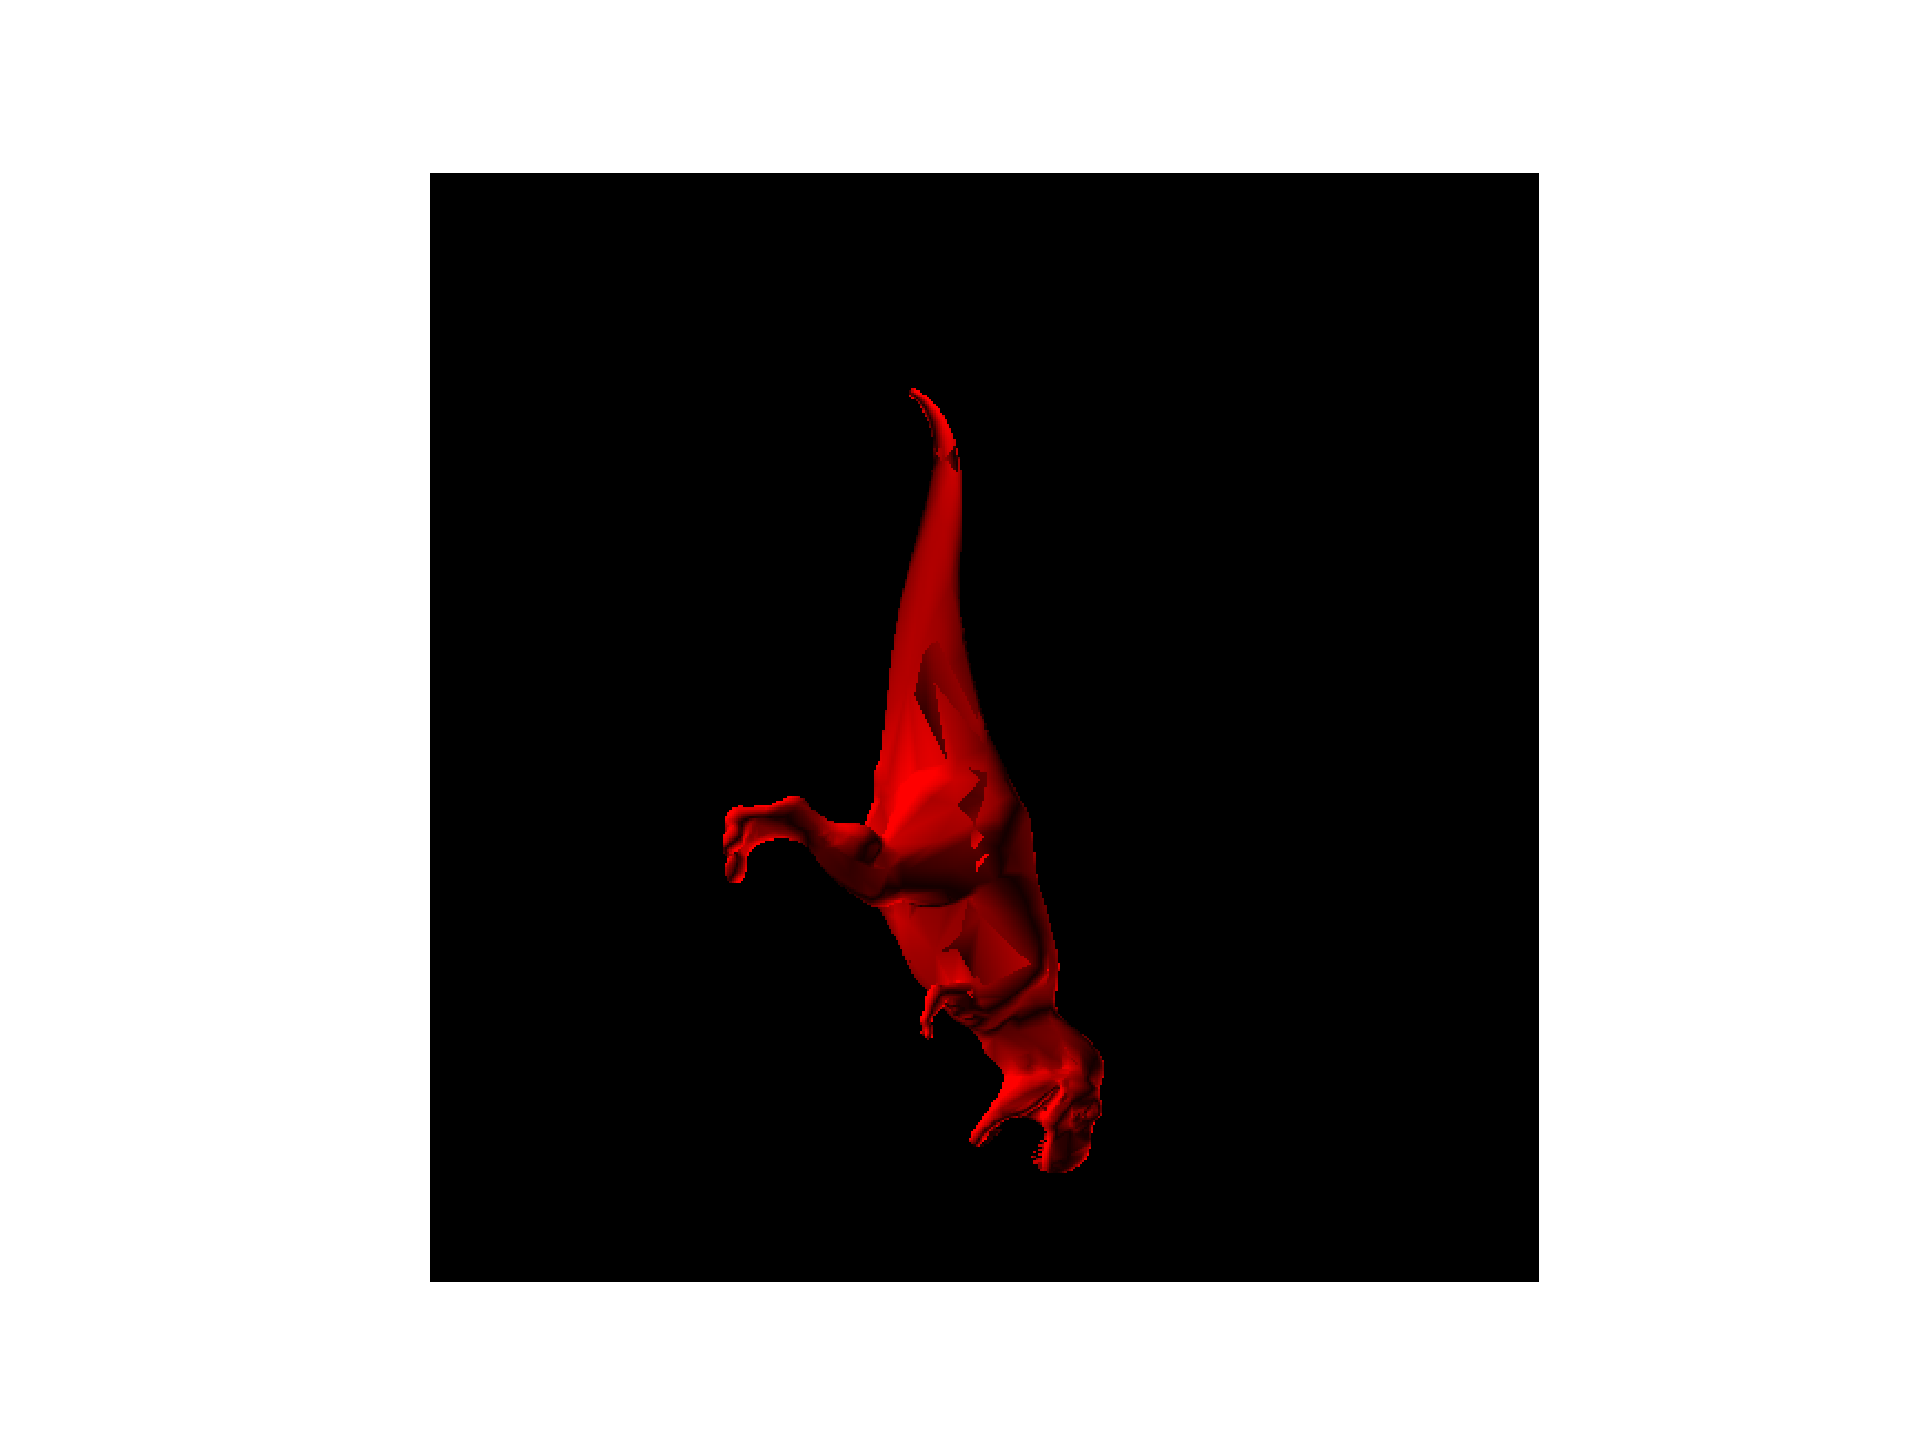
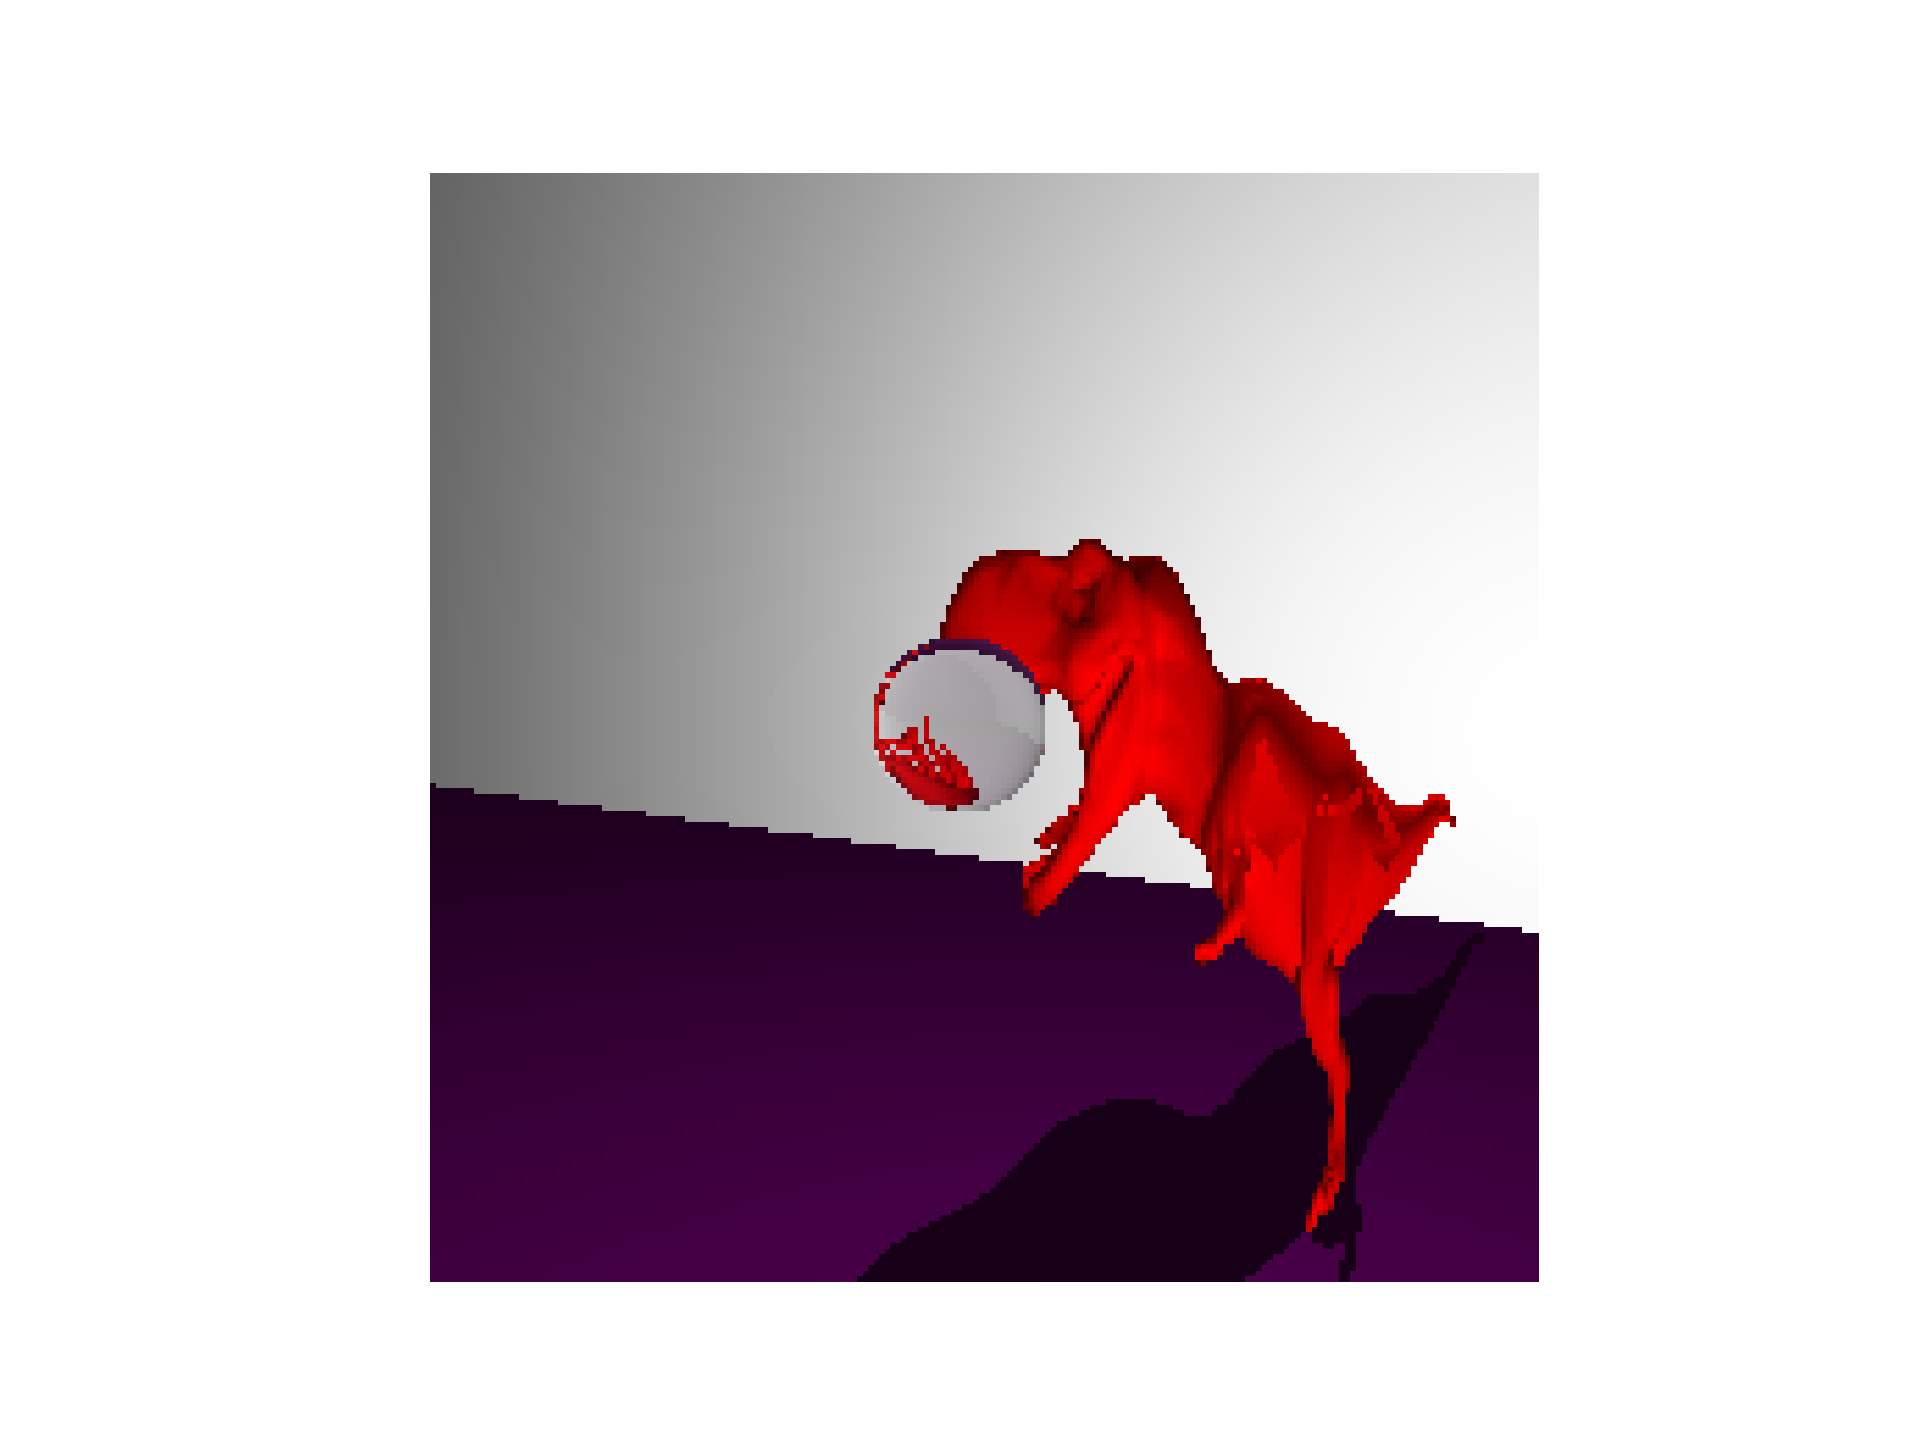
Камера по направлению

diff --git a/render/scene.cpp b/render/scene.cpp
@@ -25,8 +25,31 @@ Matr3 Camera::calculate_rotate() {
     return a * b * c;
 }
 
+
+Ray Camera::alt_calculate_ray(unsigned x, unsigned y) {
+    // if (x == 0 and y == 0) {   
+    //     Vec3 max_x = Vec3(angles[0], angles[1], angles[2]);
+    //     if (max_x.abs() == 0) max_x = Vec3(1, 0, 0);
+                
+    //     this->angles[1] = asin(max_x.z/max_x.abs());
+    //     max_x.z = 0;
+    //     this->angles[0] = -asin(max_x.x/max_x.abs());
+    //     this->angles[2] = 0;
+    //     this->calculate_rotate();
+    //     // printf("%f %f %f\n", angles[0], angles[1], angles[2]);
+    //     // getchar();
+    // }
+
+
+    Vec3 point(2 * tan(FOV_X / 2) * (x * 1.0 / X - 0.5), 1, 2 * tan(FOV_Y / 2) * (y * 1.0 / Y - 0.5));
+    Vec3 screen_point = point + position;
+    Vec3 direction(rotate * point);
+    return Ray(position, direction.normalized(), x, y, 1);
+}
+
+
 Ray Camera::calculate_ray(unsigned x, unsigned y) {
-    if (i_am_fish) {
+    if (i_am_fish == 1) {
         double alpha = FOV_X * (x * 1.0 / X - 0.5);
         double beta = FOV_Y * (y * 1.0 / Y - 0.5);
         Vec3 point(cos(beta) * sin(alpha), cos(beta) * cos(alpha), sin(beta));
@@ -77,9 +100,19 @@ int Camera::width() const{
 //res Ray[Width * Hight]
 std::vector<Ray> Camera::create_rays() {
     std::vector<Ray> ret;
+
+    Vec3 max_x = Vec3(angles[0], angles[1], angles[2]);
+    if (max_x.abs() == 0) max_x = Vec3(0, 1, 0);
+                
+    this->angles[1] = asin(max_x.z/max_x.abs());
+    max_x.z = 0;
+    this->angles[0] = -asin(max_x.x/max_x.abs());
+    this->angles[2] = 0;
+    rotate = calculate_rotate();
+
     for (unsigned x = 0; x < X; x++) {
         for (unsigned y = 0; y < Y; y++) {
-            ret.push_back(calculate_ray(x, y));
+            ret.push_back(alt_calculate_ray(x, y));
         }
     }
     return ret;

diff --git a/render/scene.h b/render/scene.h
@@ -200,6 +200,7 @@ class Camera: public Object {
     bool i_am_fish = 0;
     Matr3 calculate_rotate();
     Ray calculate_ray(unsigned x, unsigned y);
+    Ray alt_calculate_ray(unsigned x, unsigned y);
 public:
     int height() const;
     int width() const;
@@ -208,6 +209,7 @@ public:
     Camera(); // пустой конструктор (источник в начале координат, углы нулевые, расстояние, ширина, высота единицы)
     Camera(Vec3 position, Vec3 angels, double FOV_X, int X, int Y, bool i_am_fish = 0);
     std::vector<Ray> create_rays(); // генерация лучей
+    
 };
 
 // ------------------------------- scene -------------------------------

diff --git a/README.md b/README.md
@@ -35,7 +35,7 @@
         Point_light x, y, z, intensity
         Ambient_light intensity
 ## Инициализация камеры ##
-        Camera Vec3 pos, Vec3 angles, FOV, Width, Hight, i_am_fish
+        Camera Vec3 pos, Vec3 direction, FOV, Width, Hight, i_am_fish
 ## C++: реализация библиотеки ##
     main.cpp:
         r.initialization("tmp_info.ass");
